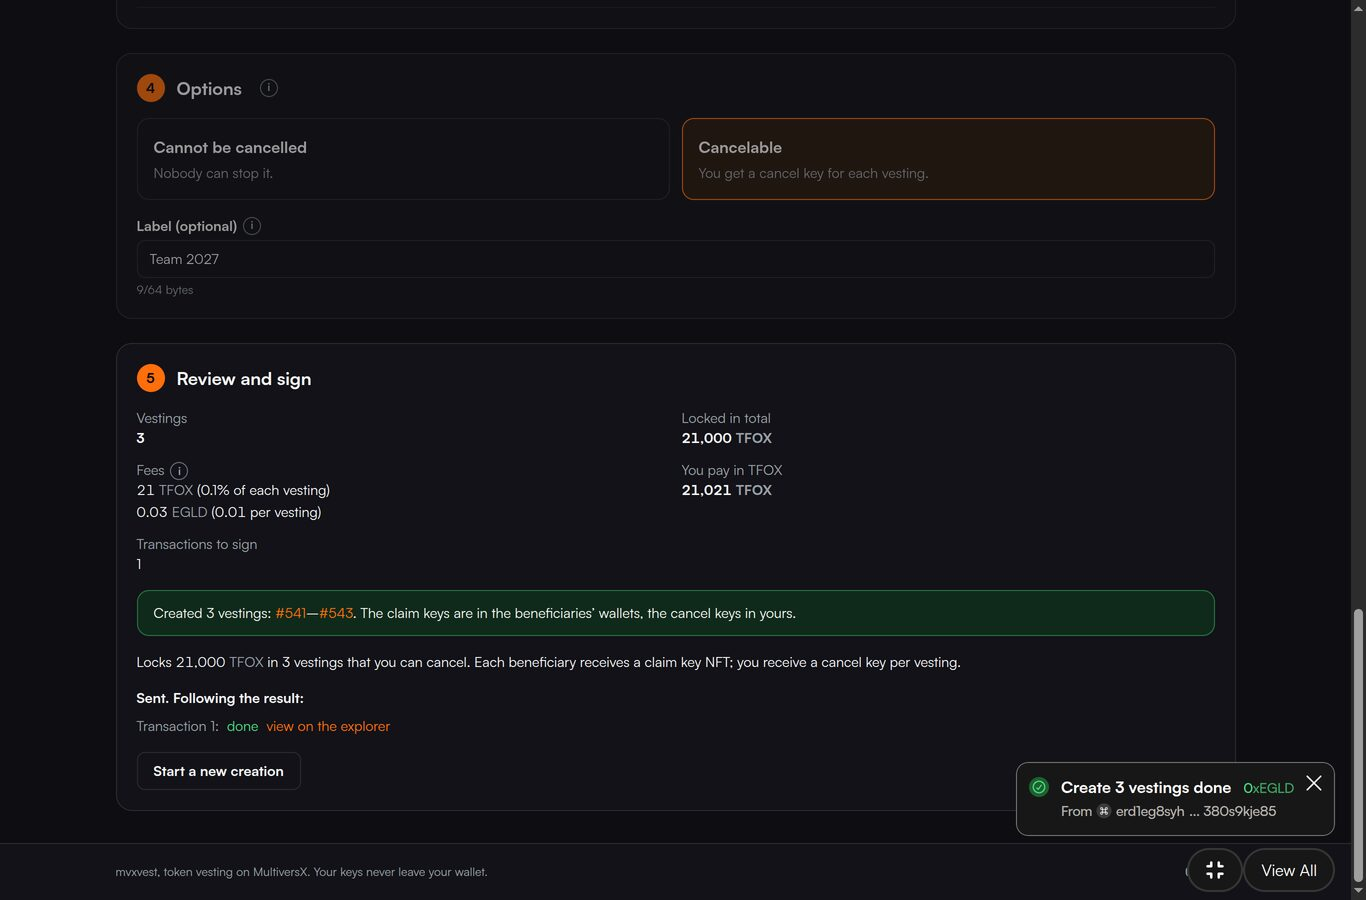
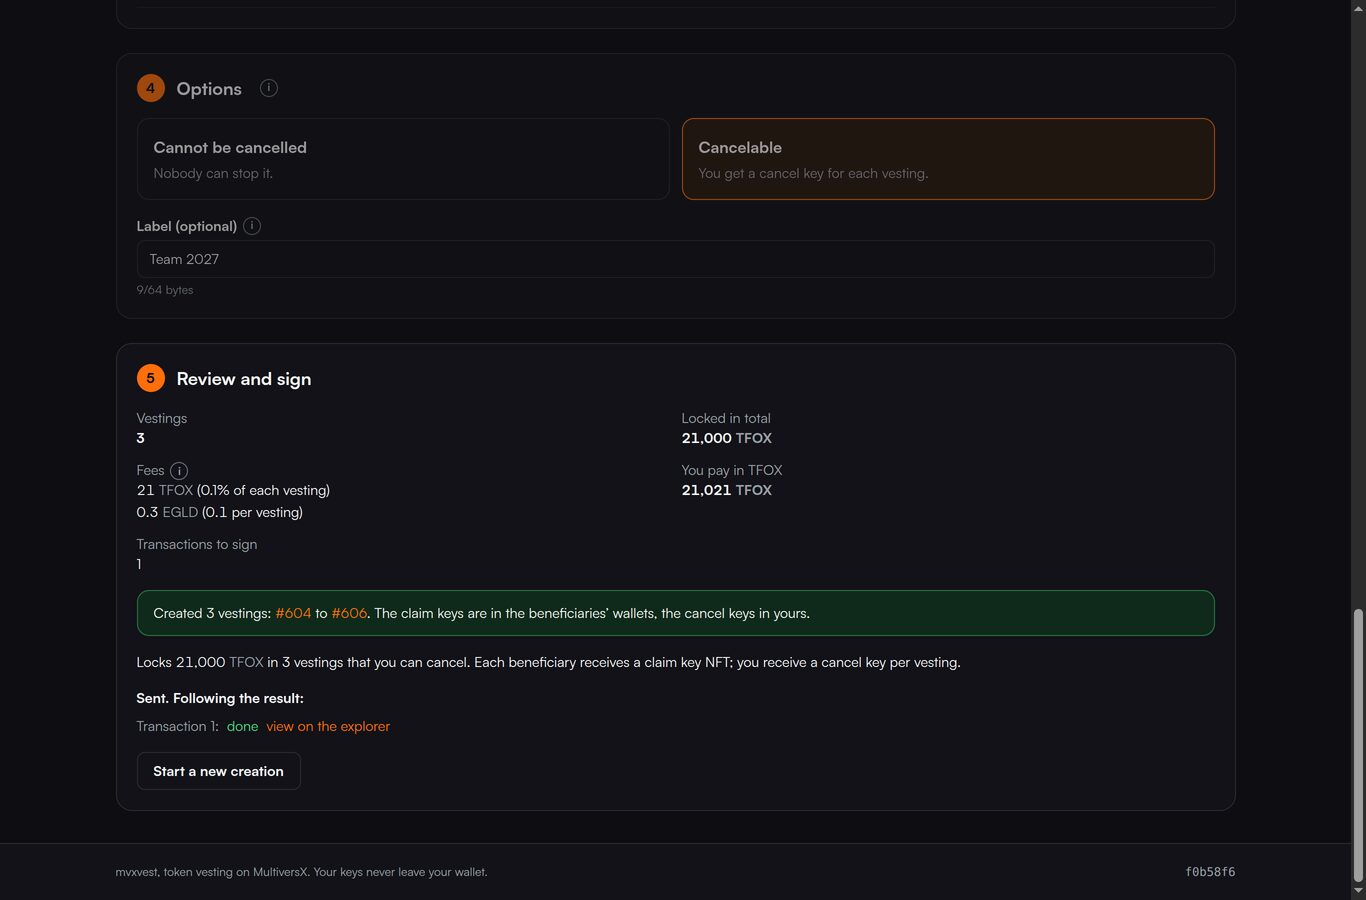
How it works: pictures 12, 13, 14 and 16 show mainnet's fees
Devnet's EGLD fee was 0.01 per vesting while mainnet charges 0.1, so the
review pictures showed the wrong fee. Devnet's fee was set to 0.1 by a vote
of the devnet multisig (action 12) and the four pictures were retaken.
Picture 14 also shows the new range wording, "#604 to #606".

Changed region(s): [[0.7379, 0.84, 0.9839, 0.9956], [0.2152, 0.6533, 0.5842, 0.6844], [0.123, 0.56, 0.246, 0.5911]]

diff --git a/dapp/src/pages/Guide.tsx b/dapp/src/pages/Guide.tsx
@@ -298,7 +298,7 @@ export const Guide = () => (
       />
       <Shot
         src='14-created'
-        caption='Created, as #541 to #543: the claim keys went to the beneficiaries and the cancel keys to you. The note in the corner comes from the wallet.'
+        caption='Created, as #604 to #606: the claim keys went to the beneficiaries and the cancel keys to you.'
       />
     </Step>
 
